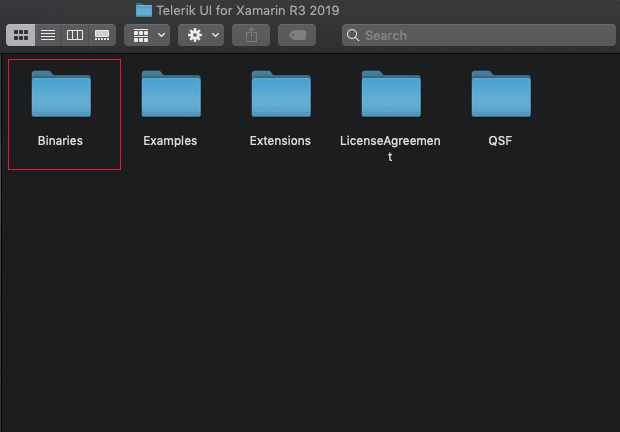
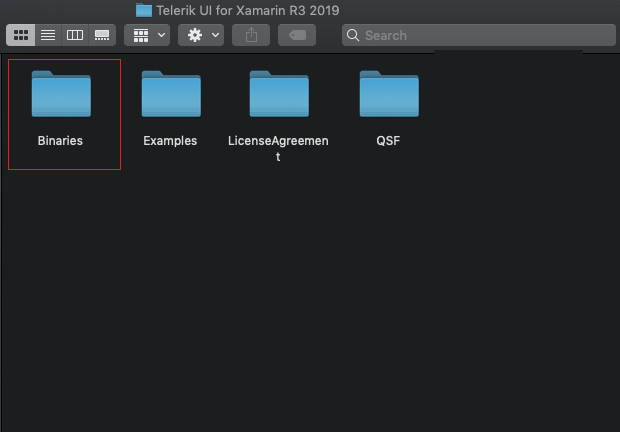
Remove the mpack from xamarin docs

diff --git a/getting-started/mac/first-steps.md b/getting-started/mac/first-steps.md
@@ -37,7 +37,7 @@ Follow the steps below in order to download the installation files:
 
 2. Select __Progress Telerik UI for Xamarin__ product title.
 
-3. Download the Installation __.pkg__ and __.mpack__ files.
+3. Download the Installation __.pkg__ file.
 
 	##### __Figure 3a: Download installers__
 	![](images/download_product_files_2.png)
@@ -54,44 +54,7 @@ Follow the steps below in order to download the installation files:
 
 	> For a more permanent solution, open the Mac OS [Settings -> Security & Privacy](https://support.apple.com/library/content/dam/edam/applecare/images/en_US/macos/Mojave/macos-mojave-system-preferences-security-general-require-disable-dark.jpg) settings panel and select **Allow apps downloaded from App Store and Identified developers**. 
 
-5. Install Visual Studio for Mac Extensions
-
-	Once you have finished the **pkg** installation, now it's time to install the Visual Studio Extensions with the **mpack** file. 
-	
-	Open the Visual Studio **Extension Manager** and select the *Install form file...* option. __Figure 5a__ shows how to access the Extension Manager.
-
-	##### __Figure 5a: Accessing Visual Studio Extensions__
-	![Visual Studio Extensions](images/VisualStudioExtensions.png)
-
-	Once you have accessed the **Extension Manager**, the following dialog will appear and you should look for the **Install from file** option.
-
-	##### __Figure 5b: Reaching the Extension Manager__
-	![Visual Studio Extensions](images/ExtensionManager.png)
-
-	Navigate to the **ProjectTemplateXamarin.mpack** file, select it and click "Open" to complete the installation.
-
-	##### __Figure 5c: The ProjectTemplate location__
-	![Visual Studio Extensions](images/InstallExtensionPackage.png)
-
-	If the add-in is successfully added to Visual Studio, you should see it in the **IDE extensions** section.
-	
-	##### __Figure 5d: Installation Successful__
-	![Installed Extension](images/macos-vs-extension-install-confirmation.png)
-	
-
-6. **Restart Visual Studio for Mac** to complete the installation.
-
-## Create a Project with Telerik UI for Xamarin
-
-1. Now you can create a new project using the Telerik Project Template. Select which platform(s) your application targets and the wizard will automatically reference all required Telerik binaries and packages.
-
-	#### __Figure 1a: Create New Project Dialog__
-	![Xamarin Studio Create new project](images/CreateNewProject.png)
-
-2. Select the **Telerik Forms App** template which can be found in *Other > Miscellaneous* section.
-
-	#### __Figure 2a: Telerik Forms App template__
-	![Xamarin Studio Create new project](images/ChooseTemplate.png)
+5. **Restart Visual Studio for Mac** to complete the installation.
 
 ## Next Steps
 

diff --git a/installation-and-deployment/mac/getting-started-mac.md b/installation-and-deployment/mac/getting-started-mac.md
@@ -4,6 +4,7 @@ page_title: Getting Started with Telerik UI for Xamarin.Forms on Mac
 description: Check our detailed documentation artile on how to get started with Telerik UI for Xamarin on Mac. Find all you need to know in Xamarin.Forms instalation and deployment documentation.
 slug: getting-started-mac
 position: 0
+Previous_url: /installation-and-deployment/mac/project-wizard, /installation-and-deployment/mac/toolbox-extension-mac
 ---
 
 # Using Telerik UI for Xamarin on Mac
@@ -19,30 +20,6 @@ Depending on your scenario, you either have an existing app where you will add o
 ### Add Telerik components to an already existing app
 
 You can manually reference the Telerik UI for Xamarin assemblies in each of the projects (Xamarin.Forms, Android, iOS) or use the Telerik Nuget packages. For detailed instructions, go to [Step 3: Add references to Telerik Components](#3-add-references-to-telerik-components).
-
-### Create a new app with Telerik UI for Xamarin
-
-If you just start your app, you have two options:
-
-- Use our [**Project Wizard**]({%slug project-wizard-xamarin-studio%}) to create a project that has everything setup for you. You can start using our components right away without manually adding required assemblies and modifying solution files.
-
-	>tip We strongly recommend using the **Project Wizard**. If you choose this option, you can skip the next steps in this article and jump directly to the **Getting Started** topic of any control.
-	
-- Create a new Xamarin.Forms app in Visual Studio for Mac and add the required references to Telerik assemblies.
-
-	If your scenario requires creating a new app from scratch, please proceed following the steps below:
-	
-	1. Open Visual Studio for Mac, then create new project from the **Multiplatform**  section select **App** -> **Xamarin.Forms** -> **Blank Forms App**:
-	
-		![Create new Xamerin.Forms app](images/vs-mac-new-xf-app.png)
-
-	1. In the next screen you could set App name. Organization Identifier, Target Platforms:
-
-		![Create new Xamarin.Forms solution second screen](images/vs-mac-new-xf-app-setup.png)
-
-	1. Follow the steps in the wizard until your app is created. It should contain the following projects:
-
-		![App setup](images/vs-mac-xf-app.png)
 
 ## 2. Getting the latest platform SDK versions
 

diff --git a/getting-started/mac/add-control-to-project.md b/getting-started/mac/add-control-to-project.md
@@ -9,16 +9,7 @@ position: 1
 
 # Add a Control to Your Project
 
-## Show the Telerik Toolbox. 
-In order to show the Toolbox and start using the controls, you should navigate to the StartPage.xaml file in your project and click on it. If the ProjectTemplate.mpack file is installed successfully, Toolbox window is visible in the project when you click on the StartPage.xaml file. 
-
->tip For more information about Toolbox for Mac check the [TelerikXamarinForms Toolbox]({%slug telerik-xamarin-toolbox-mac %}) article.
-
-## Add a Control to Your Project.
-Embedding the controls from the suite is made as easy as possible and all you need to do is simply drag one of the controls within your XAML file. This will add the control definition and will also map the needed namespace declarations. For the purpose of this example we will add [RadListView] ({%slug listview-overview%}) Control.
-
-#### __Figure 1: Adding Telerik controls to your application__
-![Add Control from Toolbox](images/mac-visual-studio-add-control-from-toolbox.gif)
+For the purpose of this example we will add [RadListView] ({%slug listview-overview%}) Control.
 		
 ## Populating RadListView with data
 

diff --git a/installation-and-deployment/download-product-files.md b/installation-and-deployment/download-product-files.md
@@ -48,7 +48,6 @@ Below you could find a list of the available files:
 ### Other Setup Files
 
 * Telerik_UI_for_Xamarin_[version]_[license]_Hotfix.zip - the Hotfix archive is a bare-bones upgrade option for the Telerik Xamarin controls - it contains only those files that you need to replace in your project to upgrade to a newer version. 
-* Telerik_UI_for_Xamarin_[version]_[license]_ProjectTemplate.mpack -  a Visual Studio for Mac add-in which provides a project template, pre-setup with all requirements to run Telerik UI for Xamarin components.
 
 And we provide the following NuGet packages you can use according to the concrete requirements:
 

diff --git a/getting-started/mac/next-steps.md b/getting-started/mac/next-steps.md
@@ -29,7 +29,6 @@ Video Tutorials
 Installation and Upgrade
 * [System Requirements]({%slug system-requirements%})
 * [Download Product Files]({%slug download-product-files%})
-* [Telerik Visual Studio Extensions]({%slug vs-extensions%})
 * [Required Android Support Libraries]({%slug required-android-support-libraries%})
 * [Telerik NuGet Server]({%slug telerik-nuget-server%})
 * [Lite Assemblies]({%slug telerik-light-assemblies%})
